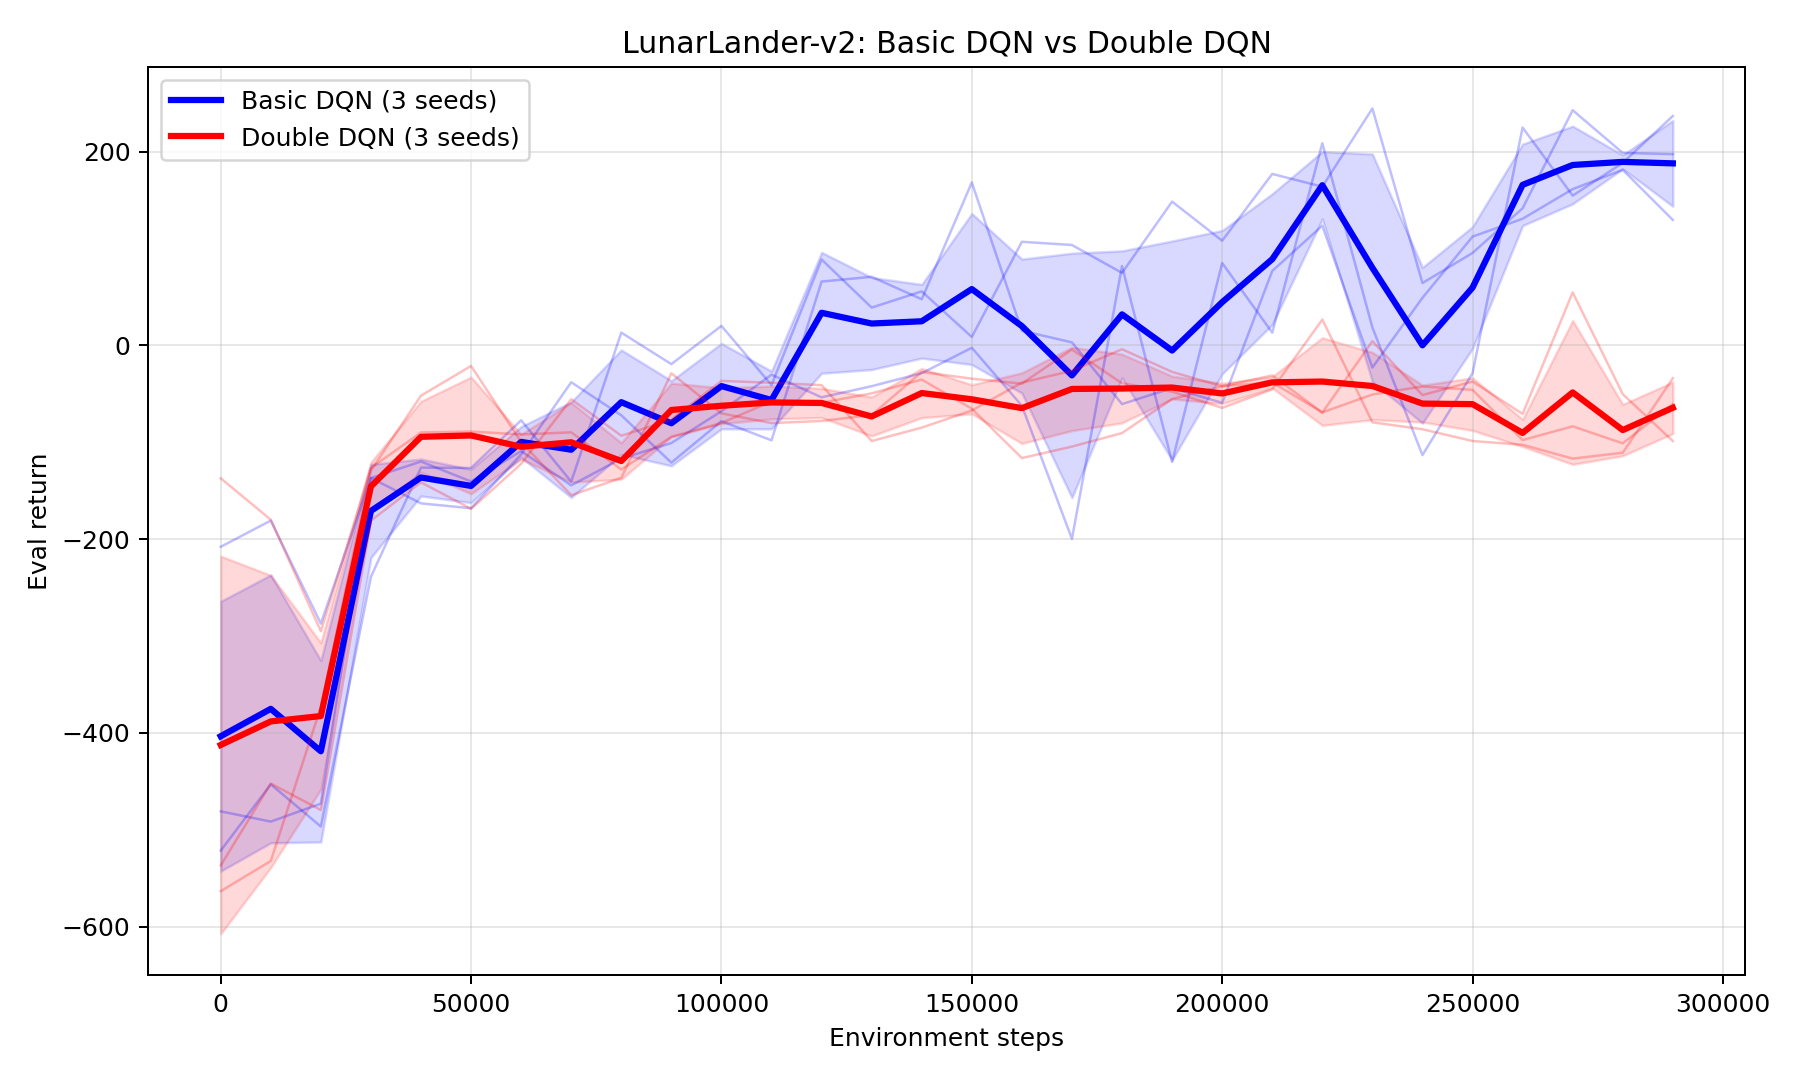
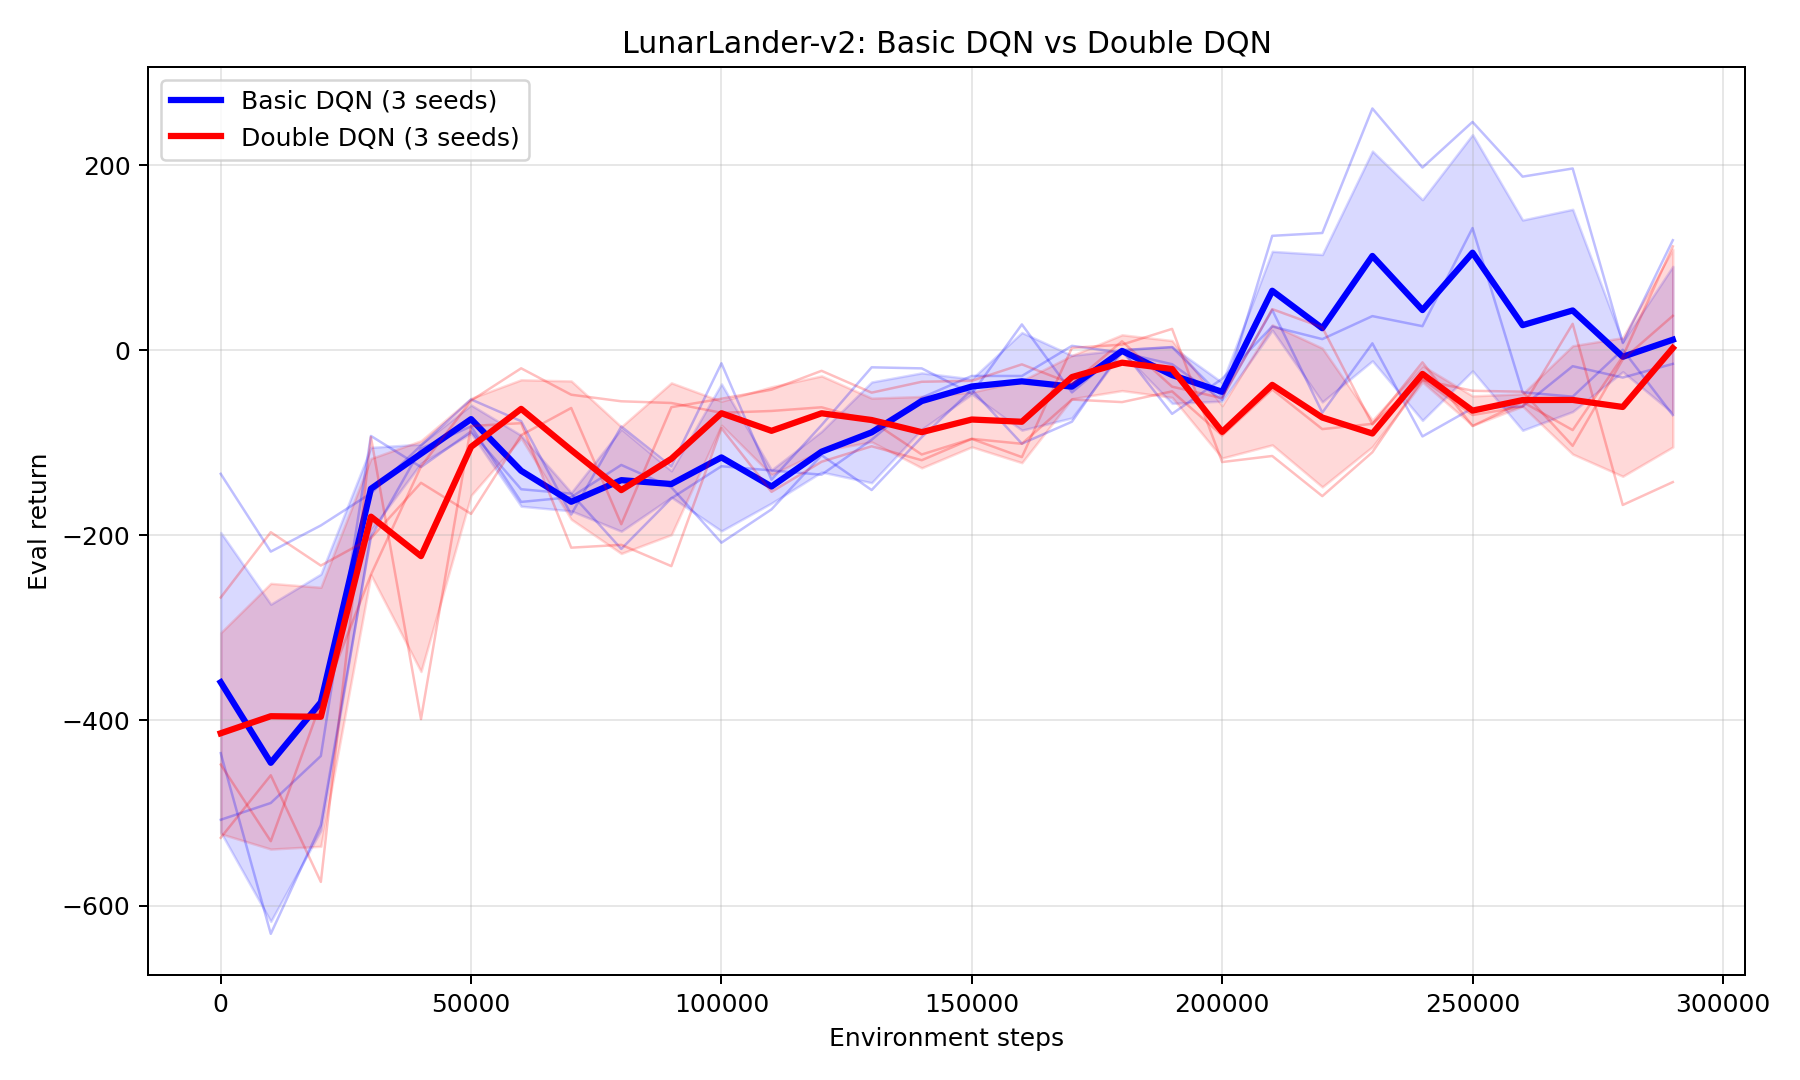
update plot

diff --git a/hw3/plot_hyper.py b/hw3/plot_hyper.py
@@ -1,0 +1,76 @@
+import os
+from pathlib import Path
+
+import numpy as np
+import matplotlib.pyplot as plt
+from tensorboard.backend.event_processing import event_accumulator
+
+DATA_DIR = Path("data")
+TAG = "eval_return"
+
+# (run 이름 키, 범례 라벨)
+EXP_KEYS = [
+    ("lunar_hp_lr1e3", "lr=1e-3"),
+    ("lunar_hp_lr3e4", "lr=3e-4"),
+    ("lunar_hp_lr3e3", "lr=3e-3"),
+    ("lunar_hp_lr1e3_epsfix", "lr=1e-3 + eval_eps_fix"),
+]
+
+COLORS = ["tab:blue", "tab:orange", "tab:green", "tab:red"]
+LINESTYLES = ["-", "--", "-.", ":"]
+
+
+def load_eval_curve(run_dir: Path):
+    ea = event_accumulator.EventAccumulator(str(run_dir), size_guidance={"scalars": 0})
+    ea.Reload()
+    if TAG not in ea.Tags()["scalars"]:
+        return None, None
+    s = ea.Scalars(TAG)
+    x = np.array([e.step for e in s], dtype=np.int64)
+    y = np.array([e.value for e in s], dtype=np.float32)
+    return x, y
+
+
+plt.figure(figsize=(11, 6))
+
+for i, ((key, label), color, ls) in enumerate(zip(EXP_KEYS, COLORS, LINESTYLES)):
+    cands = sorted(DATA_DIR.glob(f"hw3_dqn_*{key}*"), key=lambda p: p.stat().st_mtime)
+    if not cands:
+        print(f"[warn] run not found: {key}")
+        continue
+
+    run = cands[-1]
+    x, y = load_eval_curve(run)
+    if x is None:
+        print(f"[warn] eval_return not found: {run.name}")
+        continue
+
+    # 스무딩 없이 raw eval_return 그대로 그림
+    # 겹칠 때도 색이 보이도록:
+    # - alpha < 1
+    # - line style 다르게
+    # - marker 위치를 곡선마다 오프셋
+    plt.plot(
+        x, y,
+        color=color,
+        linestyle=ls,
+        linewidth=2.8,
+        alpha=0.78,
+        marker="o",
+        markevery=(i, 5),   # 곡선마다 다른 위치에 마커
+        markersize=4,
+        markerfacecolor="white",
+        markeredgewidth=1.0,
+        label=label,
+    )
+
+    print(f"[ok] {label:22s} -> {run.name} (last={y[-1]:.2f})")
+
+plt.title("LunarLander Hyperparameter Comparison")
+plt.xlabel("Environment steps")
+plt.ylabel("Eval return")
+plt.grid(alpha=0.3)
+plt.legend()
+plt.tight_layout()
+plt.savefig("hw3_lunar_hyper_eval_return.png", dpi=180)
+print("saved: hw3_lunar_hyper_eval_return.png")

diff --git a/hw3/plot_mspacman.py b/hw3/plot_mspacman.py
@@ -1,0 +1,66 @@
+import glob
+import os
+import numpy as np
+import matplotlib.pyplot as plt
+from tensorboard.backend.event_processing import event_accumulator
+
+
+def moving_average(y, w):
+    if len(y) < w:
+        return np.array(y)
+    return np.convolve(y, np.ones(w) / w, mode="valid")
+
+
+# latest MsPacman run
+runs = sorted(glob.glob("data/hw3_dqn_*MsPacmanNoFrameskip-v0*"), key=os.path.getmtime)
+if not runs:
+    raise RuntimeError("No MsPacman run found in data/")
+run = runs[-1]
+print("Using run:", run)
+
+ea = event_accumulator.EventAccumulator(run)
+ea.Reload()
+
+train_tag = "train_return"
+eval_tag = "eval_return"
+
+if train_tag not in ea.Tags()["scalars"] or eval_tag not in ea.Tags()["scalars"]:
+    raise RuntimeError("train_return or eval_return tag missing in event file.")
+
+train = ea.Scalars(train_tag)
+ev = ea.Scalars(eval_tag)
+
+x_train = np.array([e.step for e in train], dtype=np.int64)
+y_train = np.array([e.value for e in train], dtype=np.float32)
+
+x_eval = np.array([e.step for e in ev], dtype=np.int64)
+y_eval = np.array([e.value for e in ev], dtype=np.float32)
+
+# smoothing windows
+w_train = 50
+w_eval = 5
+
+y_train_s = moving_average(y_train, w_train)
+x_train_s = x_train[w_train - 1:] if len(y_train) >= w_train else x_train
+
+y_eval_s = moving_average(y_eval, w_eval)
+x_eval_s = x_eval[w_eval - 1:] if len(y_eval) >= w_eval else x_eval
+
+plt.figure(figsize=(11, 6))
+
+# raw (faint)
+plt.plot(x_train, y_train, color="tab:orange", alpha=0.15, linewidth=1, label="train_return (raw)")
+plt.plot(x_eval, y_eval, color="tab:blue", alpha=0.20, linewidth=1, label="eval_return (raw)")
+
+# smoothed (main)
+plt.plot(x_train_s, y_train_s, color="tab:orange", linewidth=2.5, label=f"train_return (MA{w_train})")
+plt.plot(x_eval_s, y_eval_s, color="tab:blue", linewidth=2.5, label=f"eval_return (MA{w_eval})")
+
+plt.title("MsPacman: Train vs Eval Return ")
+plt.xlabel("Environment steps")
+plt.ylabel("Return")
+plt.grid(alpha=0.3)
+plt.legend()
+plt.tight_layout()
+plt.savefig("hw3_mspacman_train_vs_eval.png", dpi=180)
+print("Saved: hw3_mspacman_train_vs_eval.png")

diff --git a/hw3/cs285/agents/dqn_agent.py b/hw3/cs285/agents/dqn_agent.py
@@ -45,7 +45,7 @@ class DQNAgent(nn.Module):  # DQN 에이전트(critic + target critic) 클래스
 
         self.update_target_critic()  # 시작 시 target <- online으로 동기화
 
-    def get_action(self, observation: np.ndarray, epsilon: float = 0.02) -> int:
+    def get_action(self, observation: np.ndarray, epsilon: float = 0.0) -> int:
         """
         Used for evaluation.
         """
